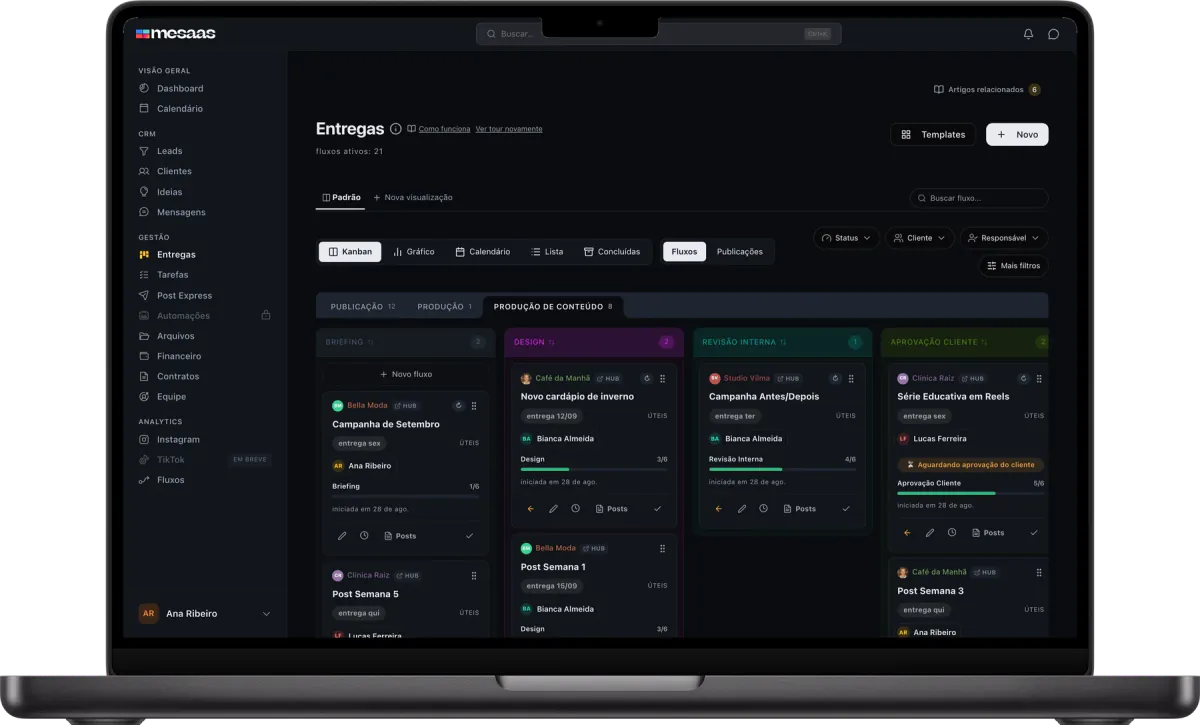
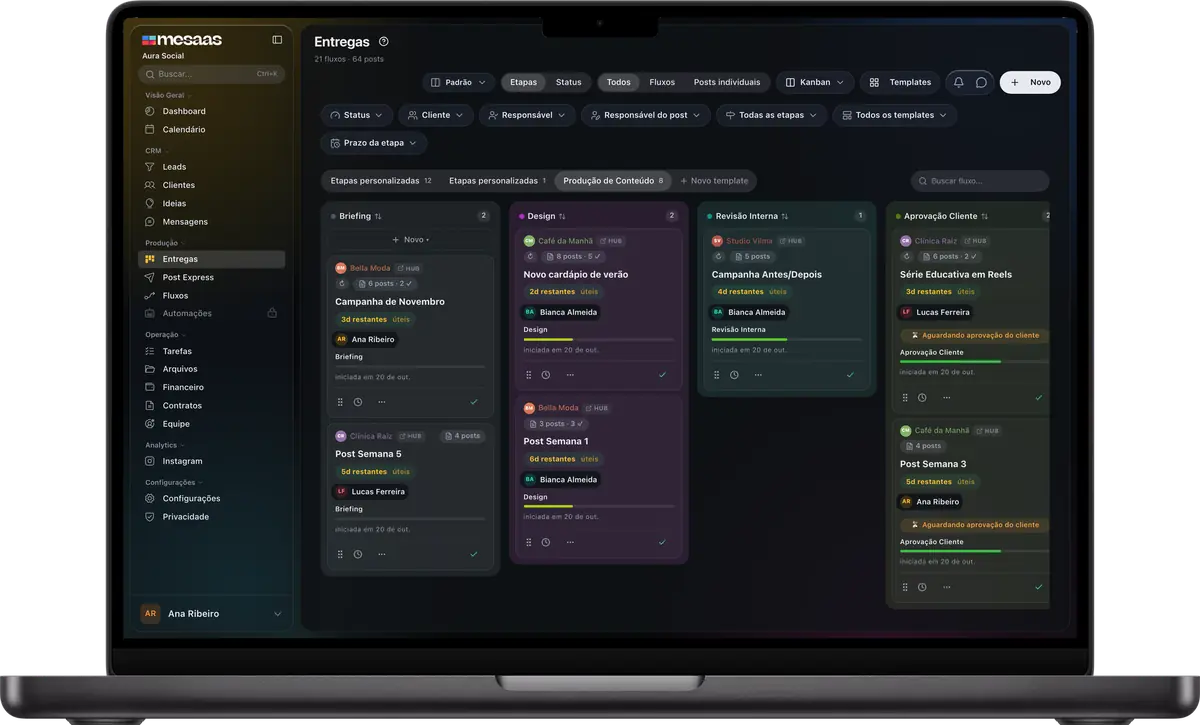
fix(ui): card client names, sidebar section titles, admin filters, landing hero
- Entregas cards: client name stays on one line (ellipsis when needed); the
  posts chip wraps to its own row instead of squeezing the name.
- Vidro sidebar: section titles get 10px above / 4px below so each group
  reads as one block; smaller, quieter caret.
- Admin Workspaces: Tailwind's `flex` beat preflight's [hidden], so the
  filter row was always visible with no gap (space-y skips [hidden]). The
  row now toggles with "Filtros" and gets its 10px gap.
- Landing hero: MacBook render recaptured in the Vidro dark look
  (anonymized, with a real-name leak check in the capture spec) and
  re-composited into the existing frame; webps at or under the old weight.

diff --git a/e2e/screenshots/landing-hero.spec.ts b/e2e/screenshots/landing-hero.spec.ts
@@ -23,6 +23,13 @@ const CAMILA_URI =
  * blocks rewrite text/numbers in the DOM before the shot so the marketing
  * image reads as a healthy workspace; nothing is persisted.
  *
+ * The MacBook dark render (public/landing/hero-macbook-dark.webp, 1800x1087)
+ * was refreshed for the Vidro look by pasting the new capture into the
+ * existing composite instead of the raw bezel: screen panel x 185..1614,
+ * y 27..956 (1430x930, the 1512:982 panel), top corners r=8, notch x 813..986
+ * down to y 56; mask drawn at 4x and box-downsampled, capture Lanczos-scaled
+ * into the panel, then -1200w/-760w regenerated at webp q75 (kept at or under the old byte weight: it is the LCP image).
+ *
  * The committed hero assets (public/landing/hero-macbook.webp and
  * hero-iphone.webp) are these captures composited into Apple's official
  * product bezels — MacBook Pro M5 14" Space Black and iPhone 16 Pro Black
@@ -41,41 +48,70 @@ test.describe.configure({ mode: 'serial' });
 test('macbook: crm entregas (dressed)', async ({ page }) => {
   const violations = await installSafetyNet(page);
 
+  // Load straight into the shell the hero shows: Vidro look in dark, with the
+  // launch intro, the "Como funciona" explainer and the tour already
+  // dismissed. Reads only -- localStorage is never written.
+  await page.addInitScript(() => {
+    const get = Storage.prototype.getItem;
+    Storage.prototype.getItem = function (key: string) {
+      if (key === 'theme') return 'dark';
+      if (key.startsWith('vidro-intro:')) return '1';
+      if (key.startsWith('entregas_explainer_dismissed_') || key.startsWith('entregas_tour_done_'))
+        return 'true';
+      return get.call(this, key);
+    };
+  });
+
   // Match the Apple MacBook Pro 14" bezel's screen panel (1512x982 pt).
   await page.setViewportSize({ width: 1512, height: 982 });
   await page.goto('/entregas');
   await page.locator('nav#sidebar').waitFor();
   await page.waitForLoadState('networkidle');
   await page.waitForTimeout(2000);
-  const fechar = page.getByRole('button', { name: 'Fechar explicação' });
-  if (await fechar.isVisible().catch(() => false)) await fechar.click();
-  await page.waitForTimeout(500);
+  expect(await page.evaluate(() => document.documentElement.dataset.look)).toBe('vidro');
   // The multi-etapa board lives under the "Produção de Conteúdo" template group.
   await page
     .locator('button, [role="tab"]')
     .filter({ hasText: /produção de conteúdo/i })
     .first()
     .click();
-  await page.waitForTimeout(1200);
+  await page.waitForTimeout(1500);
 
-  // Marketing dressing: anonymize every name and neutralize overdue markers so
-  // the shot reads as a healthy, fictional workspace. Screenshot-only —
-  // nothing is persisted anywhere.
-  await page.evaluate((camila) => {
+  // Every real name on screen, collected before dressing so the self-check
+  // below can prove none survived into the marketing image.
+  const realNames: string[] = await page.evaluate(() => {
+    const names = new Set<string>(['DK TESTE', 'Test User', 'Débora Kristin']);
+    document
+      .querySelectorAll('.board-card-client span[role="link"]')
+      .forEach((el) => names.add(el.textContent?.trim() ?? ''));
+    names.delete('');
+    return [...names];
+  });
+
+  // Marketing dressing: anonymize every name and turn overdue markers into
+  // upcoming due dates so the shot reads as a healthy, fictional workspace.
+  // Screenshot-only -- nothing is persisted anywhere.
+  await page.evaluate(() => {
     const RENAMES: Array<[RegExp, string]> = [
       [/Dra\. Marina Pacheco/g, 'Bella Moda'],
       [/Dr\. Rafael Nunes/g, 'Café da Manhã'],
       [/Dra\. Helena Costa/g, 'Clínica Raiz'],
       [/Studio Bem-Estar/g, 'Studio Vilma'],
       [/Débora Kristin|Test User/g, 'Ana Ribeiro'],
-      [/Campanha Abril — Posts \+ Reels/g, 'Campanha de Setembro'],
-      [/Lançamento Procedimento/g, 'Novo cardápio de inverno'],
+      [/DK TESTE/g, 'Aura Social'],
+      [/Campanha Abril — Posts \+ Reels/g, 'Campanha de Novembro'],
+      [/Lançamento Procedimento/g, 'Novo cardápio de verão'],
       [/Série Educativa — Reels/g, 'Série Educativa em Reels'],
       [/\s—\s(?:MP|HC|RN|BE|VP)\b/g, ''],
-      [/iniciada em .+/g, 'iniciada em 28 de ago.'],
-      [/\s*[·•]\s*9 atrasados/g, ''],
     ];
-    const INITIALS: Record<string, string> = { DM: 'BM', DH: 'CR', SB: 'SV', DK: 'AR', TU: 'AR' };
+    const INITIALS: Record<string, string> = {
+      DM: 'BM',
+      DH: 'CR',
+      DR: 'CM',
+      SB: 'SV',
+      DK: 'AR',
+      TU: 'AR',
+    };
     const tw = document.createTreeWalker(document.body, NodeFilter.SHOW_TEXT);
     const textNodes: Text[] = [];
     for (let n = tw.nextNode(); n; n = tw.nextNode()) textNodes.push(n as Text);
@@ -87,75 +123,87 @@ test('macbook: crm entregas (dressed)', async ({ page }) => {
       if (t !== n.textContent) n.textContent = t;
     }
 
-    const walk = (fn: (el: HTMLElement) => void) =>
-      document.querySelectorAll<HTMLElement>('body *').forEach(fn);
+    const leaves = () =>
+      [...document.querySelectorAll<HTMLElement>('body *')].filter(
+        (el) => el.children.length === 0,
+      );
 
-    // Red overdue counter in the header ("· 9 atrasados"), stale start dates,
-    // and danger-red progress bars.
-    walk((el) => {
+    // Header "9 atrasados" chip, the plan badge beside the workspace name and
+    // the floating help-articles button (it covers the last column).
+    leaves().forEach((el) => {
       const t = el.textContent?.trim() ?? '';
-      if (el.children.length === 0 && (/atrasados$/.test(t) || /^[·•]$/.test(t)))
-        el.style.display = 'none';
-      if (el.children.length === 0 && /^iniciada/.test(t))
-        el.textContent = 'iniciada em 28 de ago.';
-      const bg = getComputedStyle(el).backgroundColor;
-      const rgb = /^rgba?\((\d+), (\d+), (\d+)/.exec(bg);
-      if (rgb && +rgb[1] > 190 && +rgb[2] < 130 && +rgb[3] < 130) {
-        el.style.background = '#3ecf8e';
-        el.style.backgroundImage = 'none';
-      }
+      if (/^\d+ atrasados$/.test(t) || t === 'Lifetime') el.style.display = 'none';
+    });
+    document
+      .querySelectorAll<HTMLElement>('.context-help__trigger')
+      .forEach((el) => (el.style.display = 'none'));
+
+    // The test workspace has two unnamed template groups; give them the names
+    // a real agency would use.
+    const groupNames = ['Publicação', 'Produção'];
+    let gi = 0;
+    leaves().forEach((el) => {
+      if (el.textContent?.trim() === 'Etapas personalizadas' && gi < groupNames.length)
+        el.textContent = groupNames[gi++];
     });
 
-    // Overdue pills on cards → friendly due-date labels
-    const due = ['entrega sex', 'entrega qui', 'entrega 12/09', 'entrega 15/09', 'entrega ter'];
+    // React renders these as several adjacent text nodes, so rewrite the whole
+    // leaf element instead of a single node.
+    leaves().forEach((el) => {
+      const t = el.textContent?.trim() ?? '';
+      if (/^iniciada em /.test(t)) el.textContent = 'iniciada em 20 de out.';
+      if (/^21 fluxos · \d+ posts$/.test(t)) el.textContent = '21 fluxos · 64 posts';
+    });
+
+    // Overdue pills -> upcoming due dates, in the on-time colour. The relative
+    // text is a bare text node beside the "úteis" span.
+    const due = ['3d restantes', '5d restantes', '2d restantes', '6d restantes', '4d restantes'];
     let di = 0;
-    walk((el) => {
-      if (el.children.length === 0 && /^\d+d atrasado$/.test(el.textContent?.trim() ?? '')) {
-        el.textContent = due[di++ % due.length];
-        el.style.background = '#f1f5f9';
-        el.style.color = '#374151';
-      }
+    document.querySelectorAll<HTMLElement>('.board-card-deadline-pill').forEach((pill) => {
+      const node = [...pill.querySelectorAll('*'), pill]
+        .flatMap((el) => [...el.childNodes])
+        .find((n) => n.nodeType === Node.TEXT_NODE && /\d+d atrasado/.test(n.textContent ?? ''));
+      if (!node) return;
+      node.textContent = (node.textContent ?? '').replace(/\d+d atrasado/, due[di++ % due.length]);
+    });
+    // The card carries the tone too (.deadline-overdue .board-card-deadline).
+    document
+      .querySelectorAll('.deadline-overdue')
+      .forEach((el) => el.classList.replace('deadline-overdue', 'deadline-ok'));
+
+    // Posts chips: the test workspace has almost no posts attached.
+    const counts = ['6 posts · 2 ✓', '4 posts', '8 posts · 5 ✓', '3 posts · 3 ✓', '5 posts'];
+    let ci = 0;
+    document.querySelectorAll<HTMLElement>('.board-card-posts-chip').forEach((chip) => {
+      const label = [...chip.childNodes].filter((n) => n.nodeType === Node.TEXT_NODE);
+      label.forEach((n, i) => (n.textContent = i === 0 ? counts[ci++ % counts.length] : ''));
     });
 
-    // Hide the empty "Roteiro" column so the frame fills with busy columns
-    walk((ph) => {
-      if (ph.children.length !== 0 || ph.textContent?.trim() !== 'Nenhuma entrega') return;
+    // Hide the empty "Roteiro" column so the frame fills with busy columns.
+    leaves().forEach((ph) => {
+      if (ph.textContent?.trim() !== 'Nenhuma entrega') return;
       let col: HTMLElement = ph;
       while (col.parentElement && col.parentElement.offsetWidth <= 600) col = col.parentElement;
       col.style.display = 'none';
     });
 
-    // Tiny avatar photos: Camila's generated portrait for Café da Manhã,
-    // plain brand-colored dots elsewhere (anonymized)
+    // Photos (client avatars, the user's own): brand-coloured dots.
     document.querySelectorAll<HTMLImageElement>('main img, nav img').forEach((img) => {
       if (img.clientWidth > 0 && img.clientWidth <= 48 && img.clientHeight <= 48) {
-        const chipText = img.parentElement?.parentElement?.textContent ?? '';
-        if (chipText.includes('Café da Manhã')) {
-          img.src = camila;
-          img.style.objectFit = 'cover';
-          return;
-        }
         const dot = document.createElement('span');
         dot.style.cssText = `display:inline-block;width:${img.clientWidth}px;height:${img.clientHeight}px;border-radius:9999px;background:#FFBF30;flex-shrink:0`;
         img.replaceWith(dot);
       }
     });
-  }, CAMILA_URI);
-  await page.waitForTimeout(600);
-  await shoot(page, SLUG, 1, 'crm-dashboard');
-
-  // Dark variant: the CRM theme is pure CSS keyed off data-theme, so flipping
-  // the attribute is enough; re-tint the inline-styled due pills for dark.
-  await page.evaluate(() => {
-    document.documentElement.setAttribute('data-theme', 'dark');
-    document.querySelectorAll<HTMLElement>('body *').forEach((el) => {
-      if (el.children.length === 0 && /^entrega /.test(el.textContent?.trim() ?? '')) {
-        el.style.background = 'rgba(255,255,255,.08)';
-        el.style.color = '#9ca3af';
-      }
-    });
   });
   await page.waitForTimeout(600);
+
+  const leaked = await page.evaluate(
+    (names) => names.filter((n) => document.body.innerText.includes(n)),
+    realNames,
+  );
+  expect(leaked, 'real names survived the dressing').toEqual([]);
+
   await shoot(page, SLUG, 3, 'crm-dashboard-dark');
 
   assertNoViolations(violations);

diff --git a/apps/crm/src/pages/entregas/components/WorkflowCard.tsx b/apps/crm/src/pages/entregas/components/WorkflowCard.tsx
@@ -141,10 +141,22 @@ export function WorkflowCard({
       onClick={assignDropdownOpen ? () => setAssignDropdownOpen(false) : onClick}
     >
       {/* Top row: client + recurrent + drag handle */}
-      <div style={{ display: 'flex', justifyContent: 'space-between', alignItems: 'center' }}>
+      {/* Wraps instead of squeezing: a long client name keeps one line and the
+          chips drop below it. */}
+      <div
+        style={{
+          display: 'flex',
+          flexWrap: 'wrap',
+          justifyContent: 'space-between',
+          alignItems: 'center',
+          gap: '0.35rem 0.5rem',
+        }}
+      >
         <span
           className="board-card-client"
           style={{
+            minWidth: 0,
+            maxWidth: '100%',
             borderLeft: 'none',
             paddingLeft: 0,
             fontSize: '0.74rem',
@@ -207,7 +219,12 @@ export function WorkflowCard({
                   color: card.cliente.cor || 'var(--text-muted)',
                   opacity: 0.85,
                   fontWeight: 500,
+                  minWidth: 0,
+                  whiteSpace: 'nowrap',
+                  overflow: 'hidden',
+                  textOverflow: 'ellipsis',
                 }}
+                title={card.cliente.nome}
               >
                 {card.cliente.nome}
               </span>

diff --git a/apps/crm/src/styles/vidro.css b/apps/crm/src/styles/vidro.css
@@ -229,14 +229,26 @@
   }
 
   /* Compact rows so the whole nav fits a laptop viewport without scrolling. */
+  /* Header hugs its own items (4px below) and breathes from the group above
+     (10px), so each section reads as one block. */
   html[data-look='vidro'] .app-container .sidebar-group-label {
-    padding: 6px 0.75rem 1px;
+    padding: 10px 0.75rem 4px;
     line-height: 14px;
     text-transform: none;
     letter-spacing: 0;
     font-size: 11px;
     font-weight: 600;
     color: var(--vd-txt3);
+  }
+
+  html[data-look='vidro'] .app-container .sidebar-group:first-child .sidebar-group-label {
+    padding-top: 4px;
+  }
+
+  /* The 12px caret outweighed the 11px label; keep it small and quiet. */
+  html[data-look='vidro'] .app-container .sidebar-group-caret {
+    font-size: 9px;
+    opacity: 0.7;
   }
 
   html[data-look='vidro'] .app-container .sidebar-sub-link {

diff --git a/apps/admin/src/pages/workspaces/WorkspacesToolbar.tsx b/apps/admin/src/pages/workspaces/WorkspacesToolbar.tsx
@@ -214,7 +214,9 @@ export function WorkspacesToolbar({
       <div
         id="workspaces-filter-row"
         hidden={!filtersOpen}
-        className="flex flex-wrap items-center gap-2"
+        // `flex` alone beats preflight's [hidden] rule, so the row stayed visible
+        // while space-y-2.5 (which skips [hidden]) dropped its top margin.
+        className={cn('flex-wrap items-center gap-2', filtersOpen ? 'flex' : 'hidden')}
       >
         <FilterSelect
           label="Plano"
